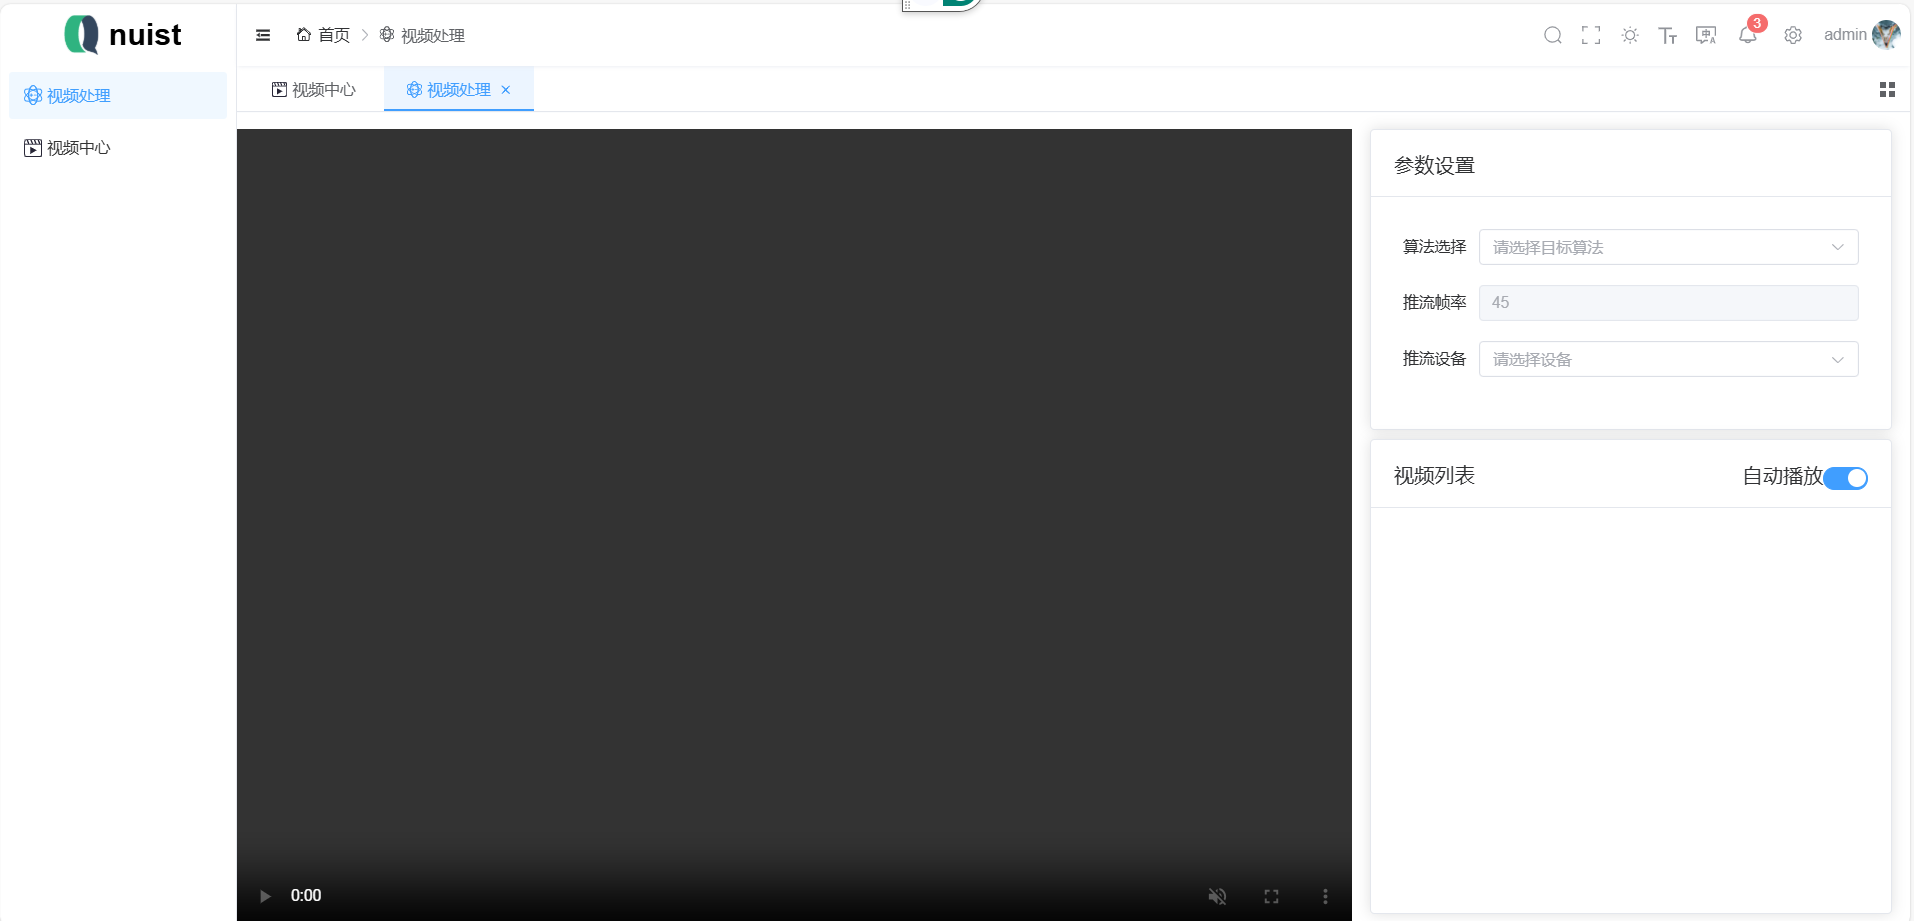
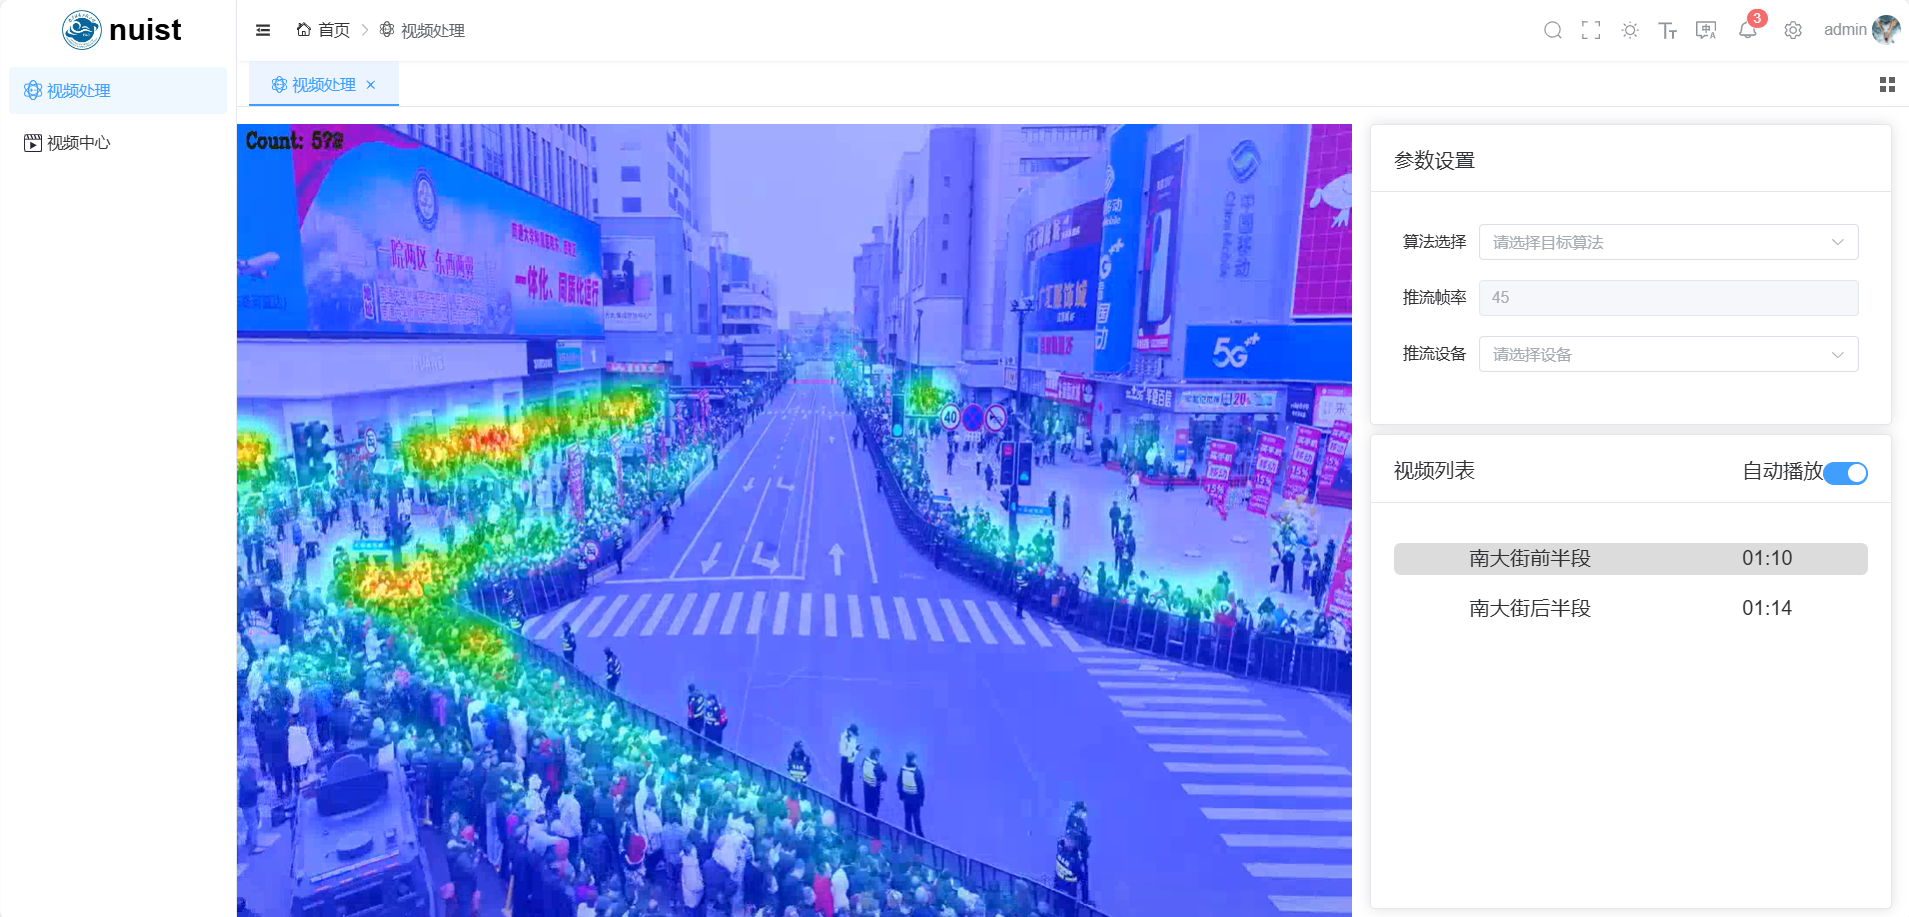
fix bug

diff --git a/src/views/algorithm/index.vue b/src/views/algorithm/index.vue
@@ -35,13 +35,23 @@
 						<div>自动播放<ElSwitch v-model="isAuto"></ElSwitch></div>
 					</div>
 				</template>
-				<ul class="list-none min-h-80">
-					<li></li>
-					<li></li>
-					<li></li>
-					<li></li>
-					<li></li>
-					<li></li>
+				<ul class="list-none min-h-80 w-full text-lg p-0 overflow-y-auto">
+					<li
+						v-for="(video, index) in videoList"
+						@click="choose(index)"
+						class="mt-4 w-full flex justify-around items-center cursor-pointer rounded-md"
+						:style="
+							selected == index
+								? {
+										backgroundColor: '#DCDCDC',
+										transition: 'background-color .5s ease-out'
+								  }
+								: { backgroundColor: 'white', transition: 'background-color .5s ease-out' }
+						"
+					>
+						<span>{{ video.name }}</span>
+						<span>{{ video.time }}</span>
+					</li>
 				</ul>
 			</ElCard>
 		</div>
@@ -49,22 +59,40 @@
 </template>
 
 <script setup lang="ts">
+import mpegts from 'mpegts.js'
+import { createVideo, destroyVideo } from './utils/video'
+import { videoChange } from '@/api/algorithm'
 import { onMounted, ref } from 'vue'
-import { createVideo } from './utils/video'
+import { AlgorithmForm, type VideoList } from './utils/interface'
 import { ElForm, ElFormItem, ElSelect, ElOption, ElInput, ElCard, ElSwitch } from 'element-plus'
-import { AlgorithmForm } from './utils/interface'
+
+const videoList = ref<VideoList[]>([
+	{ name: '南大街前半段', pth: 'model/test.mp4', time: '01:10', uid: 'home' },
+	{ name: '南大街后半段', pth: 'model/test1.mp4', time: '01:14', uid: 'home1' }
+])
+const selected = ref<number>(0)
 const isAuto = ref<boolean>(true)
-const videoRef = ref<HTMLVideoElement | null>()
 const form = ref<AlgorithmForm>({
 	name: '',
 	region: '',
 	device: '',
 	fps: 45
 })
+const videoRef = ref<HTMLVideoElement | null>()
+const flvPlayer = ref<ReturnType<typeof mpegts.createPlayer> | null>()
+const choose = (idx: number) => {
+	selected.value = idx
+	const { pth, uid } = videoList.value[idx]
+	const data = { pth, device: 'cuda:0', uid }
+	videoChange(data)
+	if (flvPlayer.value) {
+		console.log('销毁')
+		destroyVideo(flvPlayer.value)
+	}
+	flvPlayer.value = createVideo(videoRef.value!, `http://121.43.36.206:6003/live?port=1936&app=live&stream=${videoList.value[idx].uid}`)
+}
 
-onMounted(() => {
-	// createVideo()
-})
+onMounted(() => {})
 </script>
 
 <style lang="scss" scoped></style>

diff --git a/src/views/algorithm/utils/video.ts b/src/views/algorithm/utils/video.ts
@@ -21,19 +21,18 @@ const createVideo = (mountedDom: HTMLVideoElement, stream: string) => {
 				liveBufferLatencyMinRemain: 0.2
 			}
 		)
-		mountedDom.addEventListener('loadeddata', function () {
-			const frameRate = Math.round(mountedDom.duration / mountedDom.currentTime)
-			mountedDom.textContent = '视频帧率：' + frameRate
-			console.log(mountedDom.textContent)
-		})
-		// flvPlayer.on(mpegts.Events.STATISTICS_INFO, (statisticsInfo) => {
-		//   console.log(statisticsInfo)
-		// })
-		// mpegts
 		flvPlayer.attachMediaElement(mountedDom)
 		flvPlayer.load()
 		flvPlayer.play()
+		return flvPlayer
 	}
 }
 
-export { createVideo }
+const destroyVideo = (flvPlayer: ReturnType<typeof mpegts.createPlayer>) => {
+	flvPlayer.pause()
+	flvPlayer.unload()
+	flvPlayer.detachMediaElement()
+	flvPlayer.destroy()
+}
+
+export { createVideo, destroyVideo }

diff --git a/src/api/algorithm/index.ts b/src/api/algorithm/index.ts
@@ -1,0 +1,16 @@
+import request from '@/utils/request'
+import { AxiosPromise } from 'axios'
+
+// 我是懒狗之不想配置
+const baseUrl: string = 'http://8.134.60.171:6001/nuist'
+
+const videoChange = (data: any) => {
+	return request({
+		baseURL: baseUrl,
+		method: 'POST',
+		url: '/change',
+		data: data
+	})
+}
+
+export { videoChange }

diff --git a/src/views/algorithm/utils/interface.d.ts b/src/views/algorithm/utils/interface.d.ts
@@ -4,3 +4,5 @@ export interface AlgorithmForm {
 	device: string
 	fps: number
 }
+
+export type VideoList = Record<'name' | 'pth' | 'time' | 'uid', string>

diff --git a/server/utils.py b/server/utils.py
@@ -1,7 +1,9 @@
+import os
 import cv2
 import yaml
 import time
 import torch
+import signal
 import subprocess
 from queue import Queue
 from threading import Thread
@@ -13,7 +15,7 @@ def config_init(pth):
     file = open(pth,"r",encoding="utf-8")
     config = yaml.load(file.read(), Loader=yaml.FullLoader)
     config["ffmpeg"]["command"] = command = [
-        'ffmpeg', '-y', '-f', 'rawvideo', '-vcodec', 'rawvideo', '-pix_fmt',
+        'ffmpeg','-hwaccel','cuvid', '-y', '-f', 'rawvideo', '-vcodec', 'rawvideo', '-pix_fmt',
         'bgr24', '-s', "{}x{}".format(1280, 720), '-r',
         str(config["ffmpeg"]["fps"]), '-i', '-', '-c:v', 'libx264', '-b:v', '2500k', '-pix_fmt',
         'yuv420p', '-preset', 'ultrafast', '-f', 'flv', config["rtmp"]["to"]
@@ -75,30 +77,21 @@ class FrameReadLoop(Thread):
         self.pth = pth
         self.net = net
         self.device = device
-        self.pipe = subprocess.Popen(command, shell=False, stdin=subprocess.PIPE)
- 
+        self.pipe = subprocess.Popen(command, shell=False, stdin=subprocess.PIPE, preexec_fn=os.setsid)
+        self.running = True
+
     def run(self):
         cap = cv2.VideoCapture(self.pth)
-        while True:
+        while self.running:
             _, frame = cap.read()
+            if frame is None:
+                break
             n, res_frame = _count_crowd_image(frame,self.net,self.device)
-            # self.queue.put(res_frame)
             self.pipe.stdin.write(res_frame)
-'''
-class PushFrameLoop(Thread):
-    def __init__(self, command, queue):
-        super(PushFrameLoop, self).__init__()
-        self.pipe = subprocess.Popen(command, shell=False, stdin=subprocess.PIPE)
-        self.queue = queue
-
-    def run(self):
-        while True:
-            if self.queue.empty()!= True:
-                frame = self.queue.get()
-                self.pipe.stdin.write(frame)
-'''
-
-
+        # os.system("killall -9 ffmpeg")
+        self.pipe.terminate()
+        self.pipe.wait()
+        os.killpg(self.pipe.pid, signal.SIGTERM)
 
 
 

diff --git a/server/main.py b/server/main.py
@@ -1,30 +1,40 @@
 import cv2
+import time
 import torch
 import warnings
-
 warnings.filterwarnings("ignore")
 import subprocess
 from queue import Queue
 from flask import Flask, request
+from flask_cors import CORS
+from concurrent.futures import ThreadPoolExecutor
 from utils import config_init, model_loader, FrameReadLoop
+# from model.CSRNet import CSRNet
 
+
+thread_pool = []
 app = Flask(__name__)
+CORS(app)
 
-
-@app.route("/nuist/change", methods=["POST"])
+@app.route("/nuist/change",methods=["POST"])
 def change_video():
     req = request.json
-    pth, device = req["pth"], req["device"]
-    processor = FrameReadLoop(pth, model, device, config["ffmpeg"]["command"])
+    pth, device, uid = req["pth"], req["device"], req["uid"]
+    for t in thread_pool:
+        t.running = False
+    # thread_pool.clear()
+    command = config["ffmpeg"]["command"]
+    command[-1] = f"rtmp://121.43.36.206:6002/live/{uid}"
+    processor = FrameReadLoop(pth,model,device,config["ffmpeg"]["command"])
     processor.start()
-    processor.join()
-    res = {"code": 200}
-    return res
+    thread_pool.append(processor)
+    # processor.join()
+    res = {"code":200,"data":"别问啥也没有"}
+    return res 
 
-
-@app.route("/nuist/test", methods=["POST"])
+@app.route("/nuist/test",methods=["POST"])
 def test():
-    res = {"code": 200}
+    res = {"code":200,"data":"别问啥也没有"}
     return res
 
 
@@ -32,4 +42,4 @@ if __name__ == "__main__":
     global config, model
     config = config_init("config.yml")
     model = model_loader(config)
-    app.run(host="0.0.0.0", port=8888, debug=False)
+    app.run(host="0.0.0.0",port=8888,debug=False)
